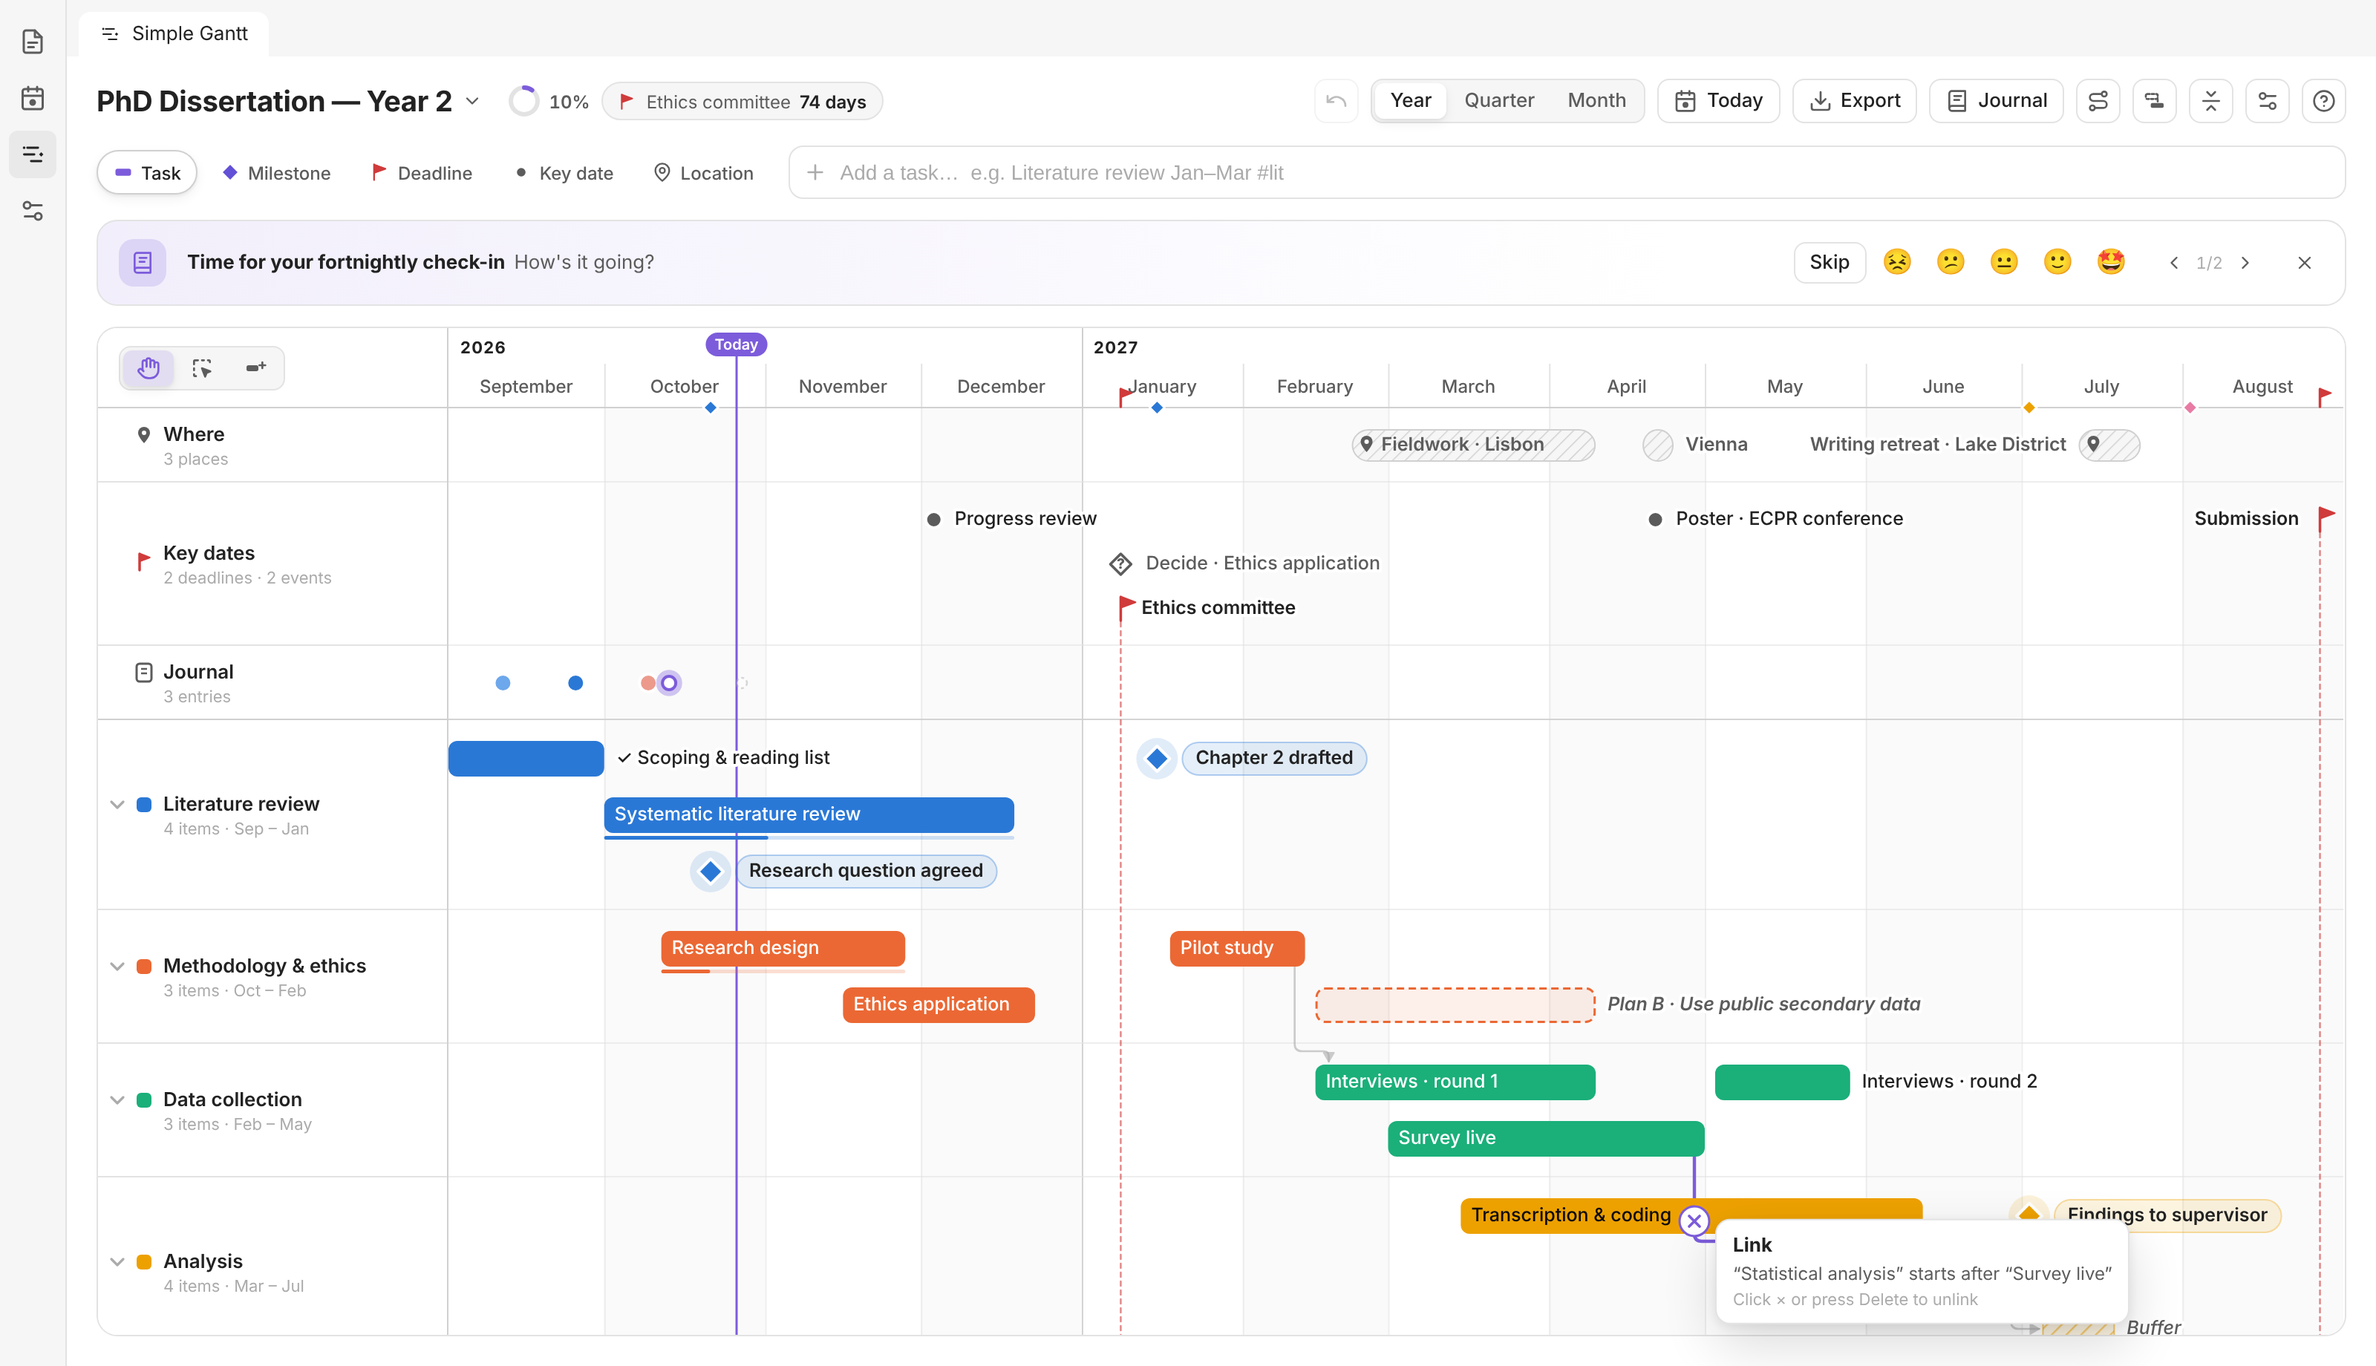
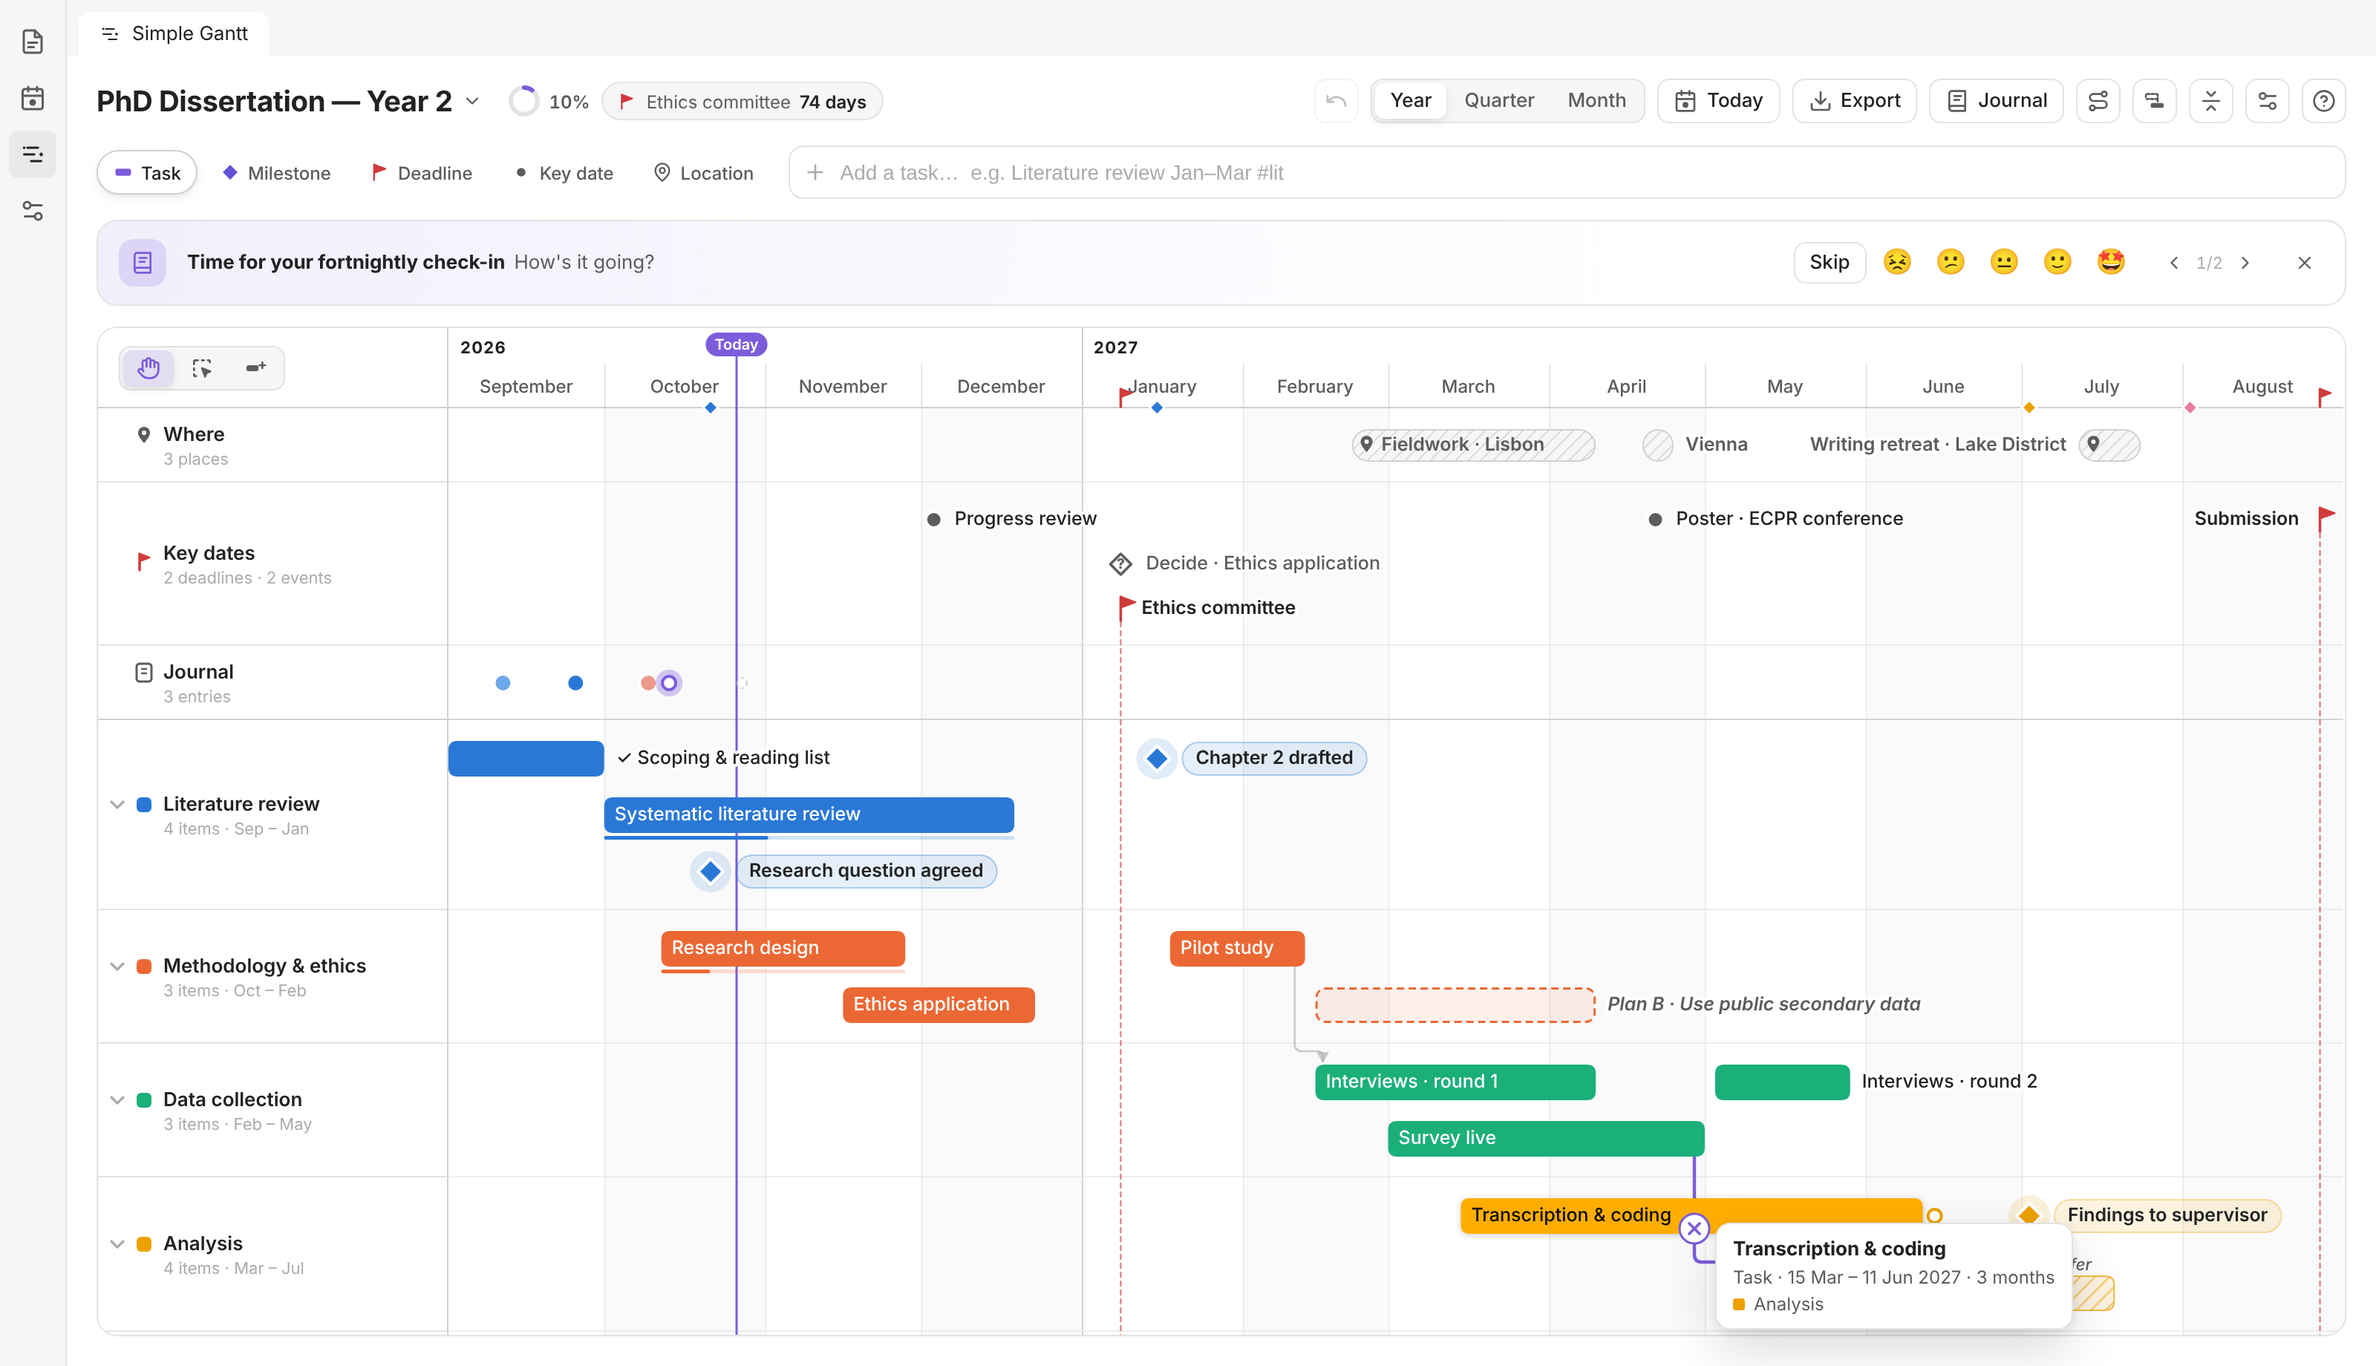
0.6.10: Buffers join their task, arrows drop straight onto the next step
- Buffer time sits on the row of the task it belongs to (inside it, or right after it), drawn as a
  hatched stretch joined to the bar, with its name above
- The task's own label moves past the buffer so they never overlap
- Arrows drop straight down onto the starting corner of the next bar, so a chain reads as a staircase
- On paper, arrows into a buffer that's part of its task's bar are left out

Changed region(s): [[0.6875, 0.8674, 0.9062, 0.9913], [0.0312, 0.8984, 0.125, 0.9293]]

diff --git a/src/core/render.ts b/src/core/render.ts
@@ -438,11 +438,18 @@ function paintItem(parent: Element, p: Placed, layout: Layout, o: PaintOptions, 
 
 	if (it.type === "task" && it.buffer) {
 		const w = p.x1 - p.x0;
-		svgEl("rect", {
-			x: p.x0 + 0.5, y: top + 0.5, width: Math.max(2, w - 1), height: layout.g.barH - 1, rx: 6,
-			fill: fills.buffer(color), stroke: color, "stroke-opacity": 0.55, class: "sg-mark", "data-part": "body",
-		}, g);
-		text(g, p.labelX, p.cy, p.label, { ...labelAttrs, ...halo(theme), fill: theme.inkSecondary, "font-style": "italic" });
+		const h = layout.g.barH;
+		const d = barPath(p.x0 + (p.squareLeft ? 0 : 0.5), top + 0.5, Math.max(2, w - (p.squareLeft ? 0 : 0.5) - (p.squareRight ? 0 : 0.5)), h - 1, 6, !p.squareLeft, !p.squareRight);
+		// An opaque base, so a buffer inside its task's bar reads as a hatched stretch of it.
+		if (p.attachedTo) svgEl("path", { d, fill: theme.surface, "pointer-events": "none" }, g);
+		svgEl("path", { d, fill: fills.buffer(color), stroke: color, "stroke-opacity": 0.7, class: "sg-mark", "data-part": "body" }, g);
+		if (p.attachedTo) {
+			// Its name sits just above it, like a caption.
+			text(g, p.labelX, top - layout.g.fontSize / 2 - 1.5, p.label, {
+				...labelAttrs, ...halo(theme), "text-anchor": p.labelAnchor, "font-size": layout.g.fontSize - 1.5,
+				fill: theme.inkSecondary, "font-style": "italic",
+			});
+		} else text(g, p.labelX, p.cy, p.label, { ...labelAttrs, ...halo(theme), fill: theme.inkSecondary, "font-style": "italic" });
 		if (o.interactive && w >= 14) {
 			const hw = Math.min(8, w / 3);
 			svgEl("rect", { x: p.x0 - 2, y: top, width: hw + 2, height: layout.g.barH, fill: "transparent", class: "sg-handle", "data-part": "start" }, g);
@@ -451,7 +458,7 @@ function paintItem(parent: Element, p: Placed, layout: Layout, o: PaintOptions, 
 		if (o.interactive && layout.on("links")) connector(g, connectorX(p), p.cy, color, theme);
 	} else if (it.type === "task") {
 		const w = p.x1 - p.x0;
-		svgEl("rect", { x: p.x0, y: top, width: w, height: layout.g.barH, rx: Math.min(6, w / 2), fill: color, class: "sg-mark", "data-part": "body" }, g);
+		svgEl("path", { d: barPath(p.x0, top, w, layout.g.barH, Math.min(6, w / 2), !p.squareLeft, !p.squareRight), fill: color, class: "sg-mark", "data-part": "body" }, g);
 		const prog = Math.max(0, Math.min(100, it.progress ?? 0));
 		// Progress sits as a slim track just under the bar so it never fights the label.
 		if (layout.on("progress") && prog > 0 && prog < 100 && w > 12) {
@@ -526,6 +533,8 @@ function paintLinks(svg: SVGSVGElement, layout: Layout, o: PaintOptions): Pt | n
 			if (!pred || pred.item.dropped || succ.item.dropped) continue;
 			// On paper a link that runs through other phases is more clutter than help.
 			if (o.print && Math.abs(layout.lanes.indexOf(pred.lane) - layout.lanes.indexOf(succ.lane)) > 1) continue;
+			// …and so is one into a buffer that's drawn as part of its task's bar.
+			if (o.print && succ.attachedTo) continue;
 			const pts = routeLink(pred, succ, layout);
 			if (!pts) continue;
 			const bad = succ.startDay < earliestAfter(pred.item, succ.item);
@@ -569,9 +578,9 @@ type Pt = [number, number];
 
 /**
  * Orthogonal route for a finish-to-start link. It leaves from just under (or over) the end of the
- * predecessor, so it never crosses that item's label. Into a bar it runs straight into the start
- * (or drops onto the top edge when the bar starts right away). Milestones, deadlines and key dates
- * are always entered through their top (or bottom) point, which keeps a chain of steps compact.
+ * predecessor, so it never crosses that item's label, and drops onto the starting corner of the
+ * next bar, so a chain of steps reads as a staircase. Milestones, deadlines and key dates are
+ * entered through their top (or bottom) point.
  */
 function routeLink(pred: Placed, succ: Placed, layout: Layout): Pt[] | null {
 	const down = succ.cy > pred.cy;
@@ -601,12 +610,13 @@ function routeLink(pred: Placed, succ: Placed, layout: Layout): Pt[] | null {
 		if (clear && cx - ex >= 4) return [[ex, pred.cy], [cx, pred.cy], [cx, edge]];
 		return [[sx, sy], [sx, gap], [cx, gap], [cx, edge]];
 	}
-	if (tx - sx >= 12) return [[sx, sy], [sx, ty], [tx, ty]];
-
-	// The successor starts at or before our end: arrive on its near edge instead.
-	const cx = Math.max(sx, succ.x0 + 9);
-	if (cx === sx && cx <= succ.x1 - 6) return [[sx, sy], [sx, edge]];
-	if (cx <= succ.x1 - 6) return [[sx, sy], [sx, gap], [cx, gap], [cx, edge]];
+	// Into a bar: arrive from above (or below) on its starting corner, so a chain of steps reads as a staircase.
+	const cx = succ.x0 + Math.min(5, (succ.x1 - succ.x0) / 2);
+	const range: [number, number] = point(pred) ? [sx - 3, sx + 3] : [pred.x0 + 3, pred.x1 + 4];
+	// Starts under the predecessor (or right at its end): one straight drop.
+	if (cx >= range[0] && cx <= range[1]) return [[cx, sy], [cx, edge]];
+	// Starts later: down from the predecessor's end, across just above the successor, then down onto its corner.
+	if (cx > range[1]) return [[sx, sy], [sx, gap], [cx, gap], [cx, edge]];
 	// Fully backwards: come round through the gap and enter from the left.
 	return [[sx, sy], [sx, gap], [tx - 10, gap], [tx - 10, ty], [tx, ty]];
 }
@@ -758,6 +768,14 @@ function check(parent: Element, cx: number, cy: number, s: number, stroke: strin
 		d: `M${cx - s},${cy} L${cx - s * 0.3},${cy + s * 0.75} L${cx + s},${cy - s * 0.7}`,
 		fill: "none", stroke, "stroke-width": 1.6, "stroke-linecap": "round", "stroke-linejoin": "round", "pointer-events": "none",
 	}, parent);
+}
+
+/** A bar outline with rounded corners only on the ends that don't join another bar. */
+function barPath(x: number, y: number, w: number, h: number, r: number, roundLeft: boolean, roundRight: boolean): string {
+	const rl = roundLeft ? Math.min(r, w / 2, h / 2) : 0;
+	const rr = roundRight ? Math.min(r, w / 2, h / 2) : 0;
+	const x1 = x + w, y1 = y + h;
+	return `M${x + rl},${y} H${x1 - rr} Q${x1},${y} ${x1},${y + rr} V${y1 - rr} Q${x1},${y1} ${x1 - rr},${y1} H${x + rl} Q${x},${y1} ${x},${y1 - rl} V${y + rl} Q${x},${y} ${x + rl},${y} Z`;
 }
 
 /** How a deadline's rule is drawn: a quiet dashed line on screen, a clear one on paper. */

diff --git a/src/core/layout.ts b/src/core/layout.ts
@@ -125,6 +125,11 @@ export interface Placed {
 	labelX: number;
 	labelInside: boolean;
 	labelAnchor: "start" | "end";
+	/** A buffer drawn on its task's row: the task's id. Its label sits above it. */
+	attachedTo?: string;
+	/** Ends that join another bar (a buffer and its task) are drawn square. */
+	squareLeft?: boolean;
+	squareRight?: boolean;
 }
 
 export interface Layout {
@@ -340,10 +345,61 @@ export function computeLayout(project: Project, opts: LayoutOptions): Layout {
 			const to = labelInside ? x1 : Math.max(x1, labelAnchor === "start" ? labelX + labelW : x1);
 			return { mark, item, s, e, label, labelW, x0, x1, labelX, labelInside, labelAnchor, from, to };
 		});
-		// The journal lane is a single row of small markers; everything else is packed.
-		const rows = flat ? pre.map(() => 0) : pack(pre.map((p) => [p.from, p.to]), g.packGap);
+		// Buffer time sits on the row of the task it belongs to (one it overlaps, or follows within a week),
+		// joined to the bar like an extension of it, with its name above.
+		const hostOf = new Map<number, number>();
+		const isTask = (q: (typeof pre)[number]) => q.mark.kind === "item" && q.item.type === "task" && !q.item.dropped;
+		if (!strip && !flat) {
+			pre.forEach((b, i) => {
+				if (!isTask(b) || !b.item.buffer) return;
+				let best = -1, bestScore = Infinity;
+				pre.forEach((t, j) => {
+					if (!isTask(t) || t.item.buffer) return;
+					const overlaps = b.s <= t.e && b.e >= t.s;
+					const follows = b.s > t.e && b.s - t.e <= 7;
+					if (!overlaps && !follows) return;
+					const score = (b.item.after?.includes(t.item.id) ? 0 : 1000) + (overlaps ? 0 : b.s - t.e);
+					if (score < bestScore) [best, bestScore] = [j, score];
+				});
+				if (best >= 0) hostOf.set(i, best);
+			});
+			const labelSize = g.fontSize - 1.5;
+			for (const [i, j] of hostOf) {
+				const b = pre[i], t = pre[j];
+				b.labelW = b.label ? opts.measure(b.label, 500, labelSize) : 0;
+				b.labelInside = false;
+				b.labelAnchor = b.x0 + b.labelW + 2 > width ? "end" : "start";
+				b.labelX = b.labelAnchor === "end" ? b.x1 : b.x0 + 1;
+				b.from = Math.min(t.from, b.x0);
+				b.to = b.x1;
+				// The task's own label moves past the buffer (or out of the bar, if the buffer covers it).
+				const end = Math.max(t.x1, b.x1);
+				const covered = t.labelInside && t.labelX + t.labelW > b.x0 && t.labelX < b.x1;
+				if (!t.labelInside || covered) {
+					t.labelInside = false;
+					t.labelAnchor = end + g.labelGap + t.labelW + 4 > width ? "end" : "start";
+					t.labelX = t.labelAnchor === "end" ? t.x0 - g.labelGap : end + g.labelGap;
+				}
+				t.from = Math.min(t.from, b.x0, t.labelAnchor === "end" && !t.labelInside ? t.labelX - t.labelW : t.from);
+				t.to = Math.max(t.to, b.x1, t.labelAnchor === "start" && !t.labelInside ? t.labelX + t.labelW : t.to);
+			}
+		}
+
+		// The journal lane is a single row of small markers; everything else is packed (buffers ride with their task).
+		const packed = pre.map((_, i) => i).filter((i) => !hostOf.has(i));
+		const packedRows = flat ? packed.map(() => 0) : pack(packed.map((i) => [pre[i].from, pre[i].to]), g.packGap);
+		const rows: number[] = [];
+		packed.forEach((i, k) => (rows[i] = packedRows[k]));
+		for (const [i, j] of hostOf) rows[i] = rows[j];
 		const rowCount = Math.max(1, ...rows.map((r) => r + 1));
-		const contentH = rowCount * pitch - (pitch - markH);
+		// Rows with a buffer's name above them get a little headroom for it.
+		const headroom = Math.round(g.fontSize + 1);
+		const rowTop: number[] = [];
+		for (let r = 0, extra = 0; r < rowCount; r++) {
+			if ([...hostOf.keys()].some((i) => rows[i] === r && pre[i].label)) extra += headroom;
+			rowTop[r] = r * pitch + extra;
+		}
+		const contentH = rowTop[rowCount - 1] + markH;
 		const height = Math.max(strip ? 36 : group.collapsed ? g.minLaneH - 12 : g.minLaneH, contentH + g.lanePad * 2);
 		const contentTop = y + (height - contentH) / 2;
 
@@ -368,6 +424,17 @@ export function computeLayout(project: Project, opts: LayoutOptions): Layout {
 		};
 		lanes.push(lane);
 
+		/** How a buffer and its task join: square ends where they touch. */
+		const joins = (i: number): Partial<Placed> => {
+			const j = hostOf.get(i);
+			if (j !== undefined) {
+				const b = pre[i], t = pre[j];
+				return { attachedTo: t.item.id, squareLeft: b.s <= t.e + 1, squareRight: b.e < t.e };
+			}
+			const follows = [...hostOf].some(([bi, tj]) => tj === i && pre[bi].s === pre[i].e + 1);
+			return follows ? { squareRight: true } : {};
+		};
+
 		pre.forEach((p, i) => {
 			const parent = p.mark.parentId ? project.items.find((it) => it.id === p.mark.parentId) : undefined;
 			placed.push({
@@ -383,13 +450,14 @@ export function computeLayout(project: Project, opts: LayoutOptions): Layout {
 				endDay: p.e,
 				x0: p.x0,
 				x1: p.x1,
-				cy: contentTop + rows[i] * pitch + markH / 2,
+				cy: contentTop + rowTop[rows[i]] + markH / 2,
 				color: group.phase?.color ?? (p.item.type === "location" ? null : phaseColor(p.item.phase ?? parent?.phase)),
 				label: p.label,
 				labelW: p.labelW,
 				labelX: p.labelX,
 				labelInside: p.labelInside,
 				labelAnchor: p.labelAnchor,
+				...joins(i),
 			});
 		});
 		y += height;

diff --git a/dev/nudges.test.ts b/dev/nudges.test.ts
@@ -327,5 +327,25 @@ t("print layout: Plan B's decision date goes into its label; deadlines get their
 	assert.ok(lay.placed.some((p) => p.item.type === "milestone" && / · 15 Jan$/.test(p.label)), "milestone labels carry their date");
 });
 
+t("buffers sit on their task's row, joined to it, with the task's label moved past them", () => {
+	const p = normalizeProject({
+		start: "2026-11-01", end: "2027-04-30",
+		phases: [{ id: "fw", name: "Firmware" }],
+		items: [
+			{ id: "r1", type: "task", title: "Firmware extraction", phase: "fw", start: "2026-12-01", end: "2027-01-18" },
+			{ id: "rb", type: "task", buffer: true, title: "Christmas break", phase: "fw", start: "2026-12-21", end: "2027-01-06" },
+			{ id: "s1", type: "task", title: "Write up", phase: "fw", start: "2027-02-01", end: "2027-02-20" },
+			{ id: "sb", type: "task", buffer: true, title: "Buffer", phase: "fw", start: "2027-02-21", end: "2027-02-27", after: ["s1"] },
+		],
+	});
+	const lay = computeLayout(p, { pxPerDay: 3, showEmptyLanes: false, measure: (s: string) => s.length * 6 });
+	const at = (id: string) => lay.placed.find((x) => x.item.id === id)!;
+	assert.equal(at("rb").cy, at("r1").cy, "a buffer inside a task shares its row");
+	assert.equal(at("sb").cy, at("s1").cy, "a buffer right after a task shares its row");
+	assert.equal(at("rb").attachedTo, "r1");
+	assert.ok(at("sb").squareLeft && at("s1").squareRight, "the two bars join with square ends");
+	assert.ok(at("s1").labelInside || at("s1").labelX >= at("sb").x1, "the task's own label doesn't sit on the buffer");
+});
+
 console.log(failed ? `\n${failed} failed` : `\nall nudge/journal/link/feature tests passed`);
 if (failed) process.exit(1);

diff --git a/dev/integration.ts b/dev/integration.ts
@@ -61,7 +61,7 @@ function check(cond: unknown, msg: string) {
 		check(view().board.getProject().title === "Renamed in editor", "undo never reverts edits made outside the board");
 
 		// Drag a bar: move the teaching task by ~2 weeks
-		const bar = document.querySelector('.sg-item.sg-task rect.sg-mark') as SVGRectElement;
+		const bar = document.querySelector('.sg-item.sg-task .sg-mark') as SVGGraphicsElement;
 		const id = bar.closest(".sg-item")!.getAttribute("data-id")!;
 		const before = view().board.getProject().items.find((i: any) => i.id === id);
 		const startBefore = before.start;

diff --git a/styles.css b/styles.css
@@ -271,7 +271,7 @@
 .sg-body .sg-lane-hit { cursor: crosshair; }
 .sg-body .sg-item .sg-mark { transition: filter 0.15s; }
 .sg-body .sg-item:hover .sg-mark { filter: brightness(1.08) saturate(1.05); }
-.sg-body .sg-item:hover rect.sg-mark { filter: brightness(1.08) drop-shadow(0 1px 2px rgba(0, 0, 0, 0.18)); }
+.sg-body .sg-item.sg-task:hover .sg-mark, .sg-body .sg-item.sg-location:hover .sg-mark { filter: brightness(1.08) drop-shadow(0 1px 2px rgba(0, 0, 0, 0.18)); }
 .sg-body .sg-selection { animation: sg-fade 0.2s ease-out; }
 .sg-body .sg-pop > * {
 	transform-box: fill-box;
